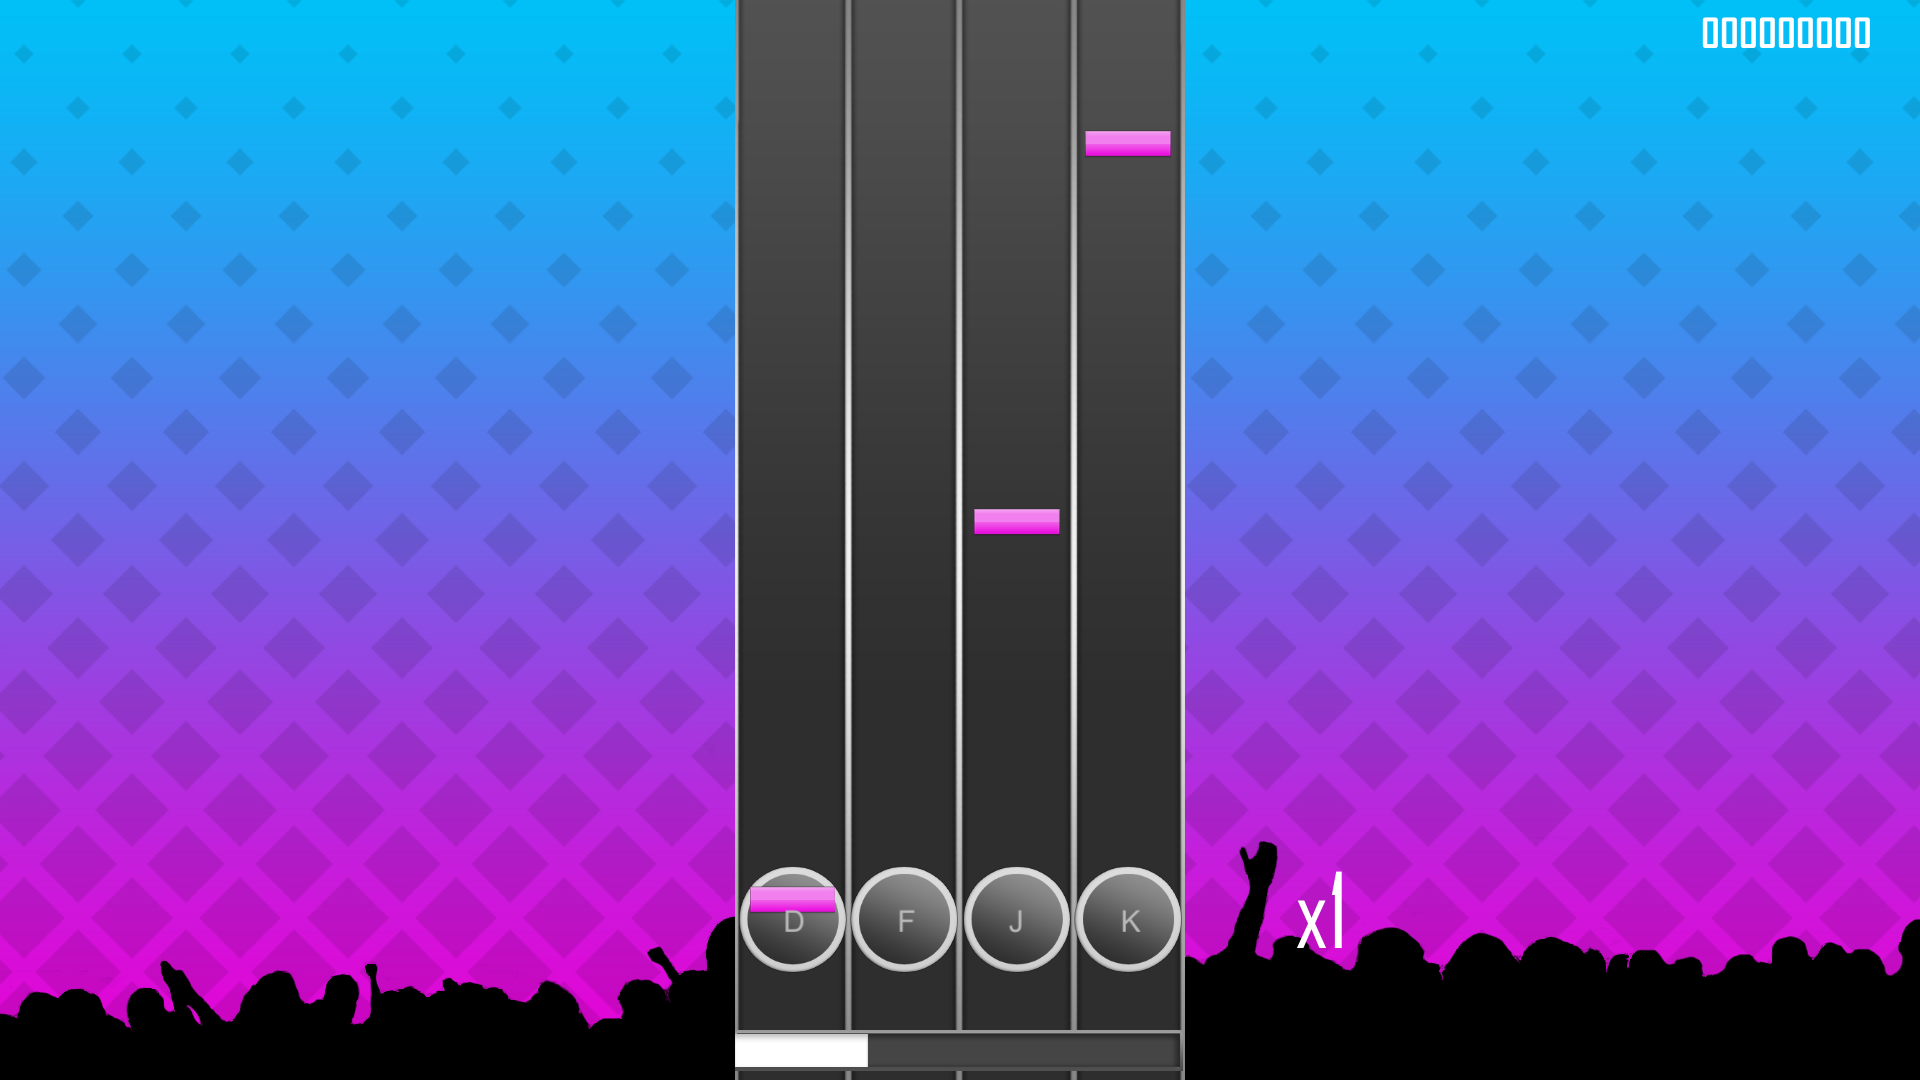
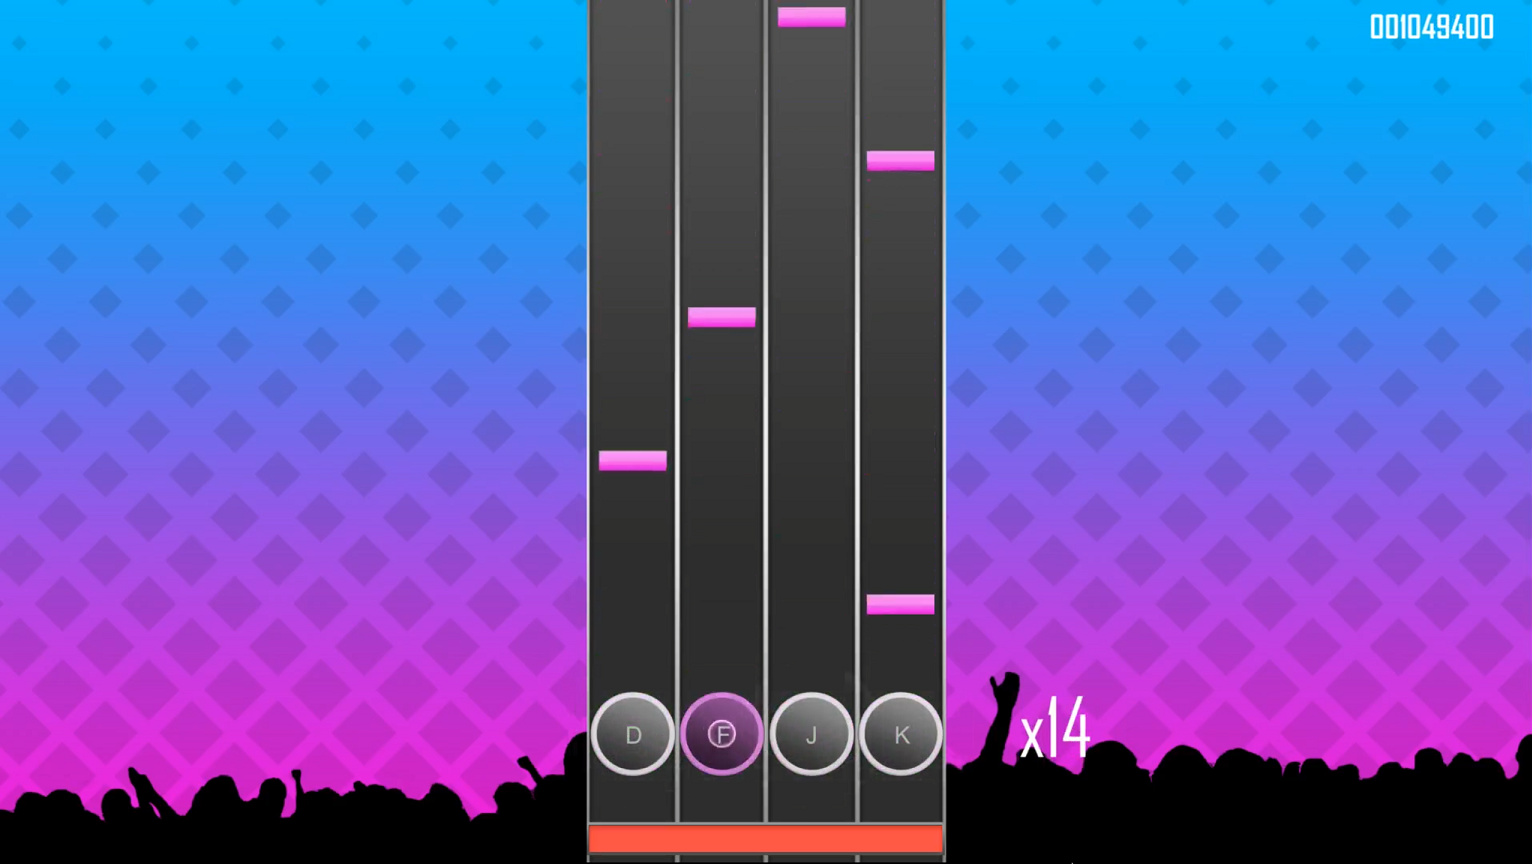
New Beat Master Page

diff --git a/BeatMaster.html b/BeatMaster.html
@@ -38,6 +38,7 @@
 			<p><b>I do not own the rights to either of the songs used and the timing of the notes is based off of other peoples work.</b></p>
 			<p>For this project we were required to make a arcade game. This was was to help us work on programming in C# and better understanding what Unity has to offer. For my idea I picked a rhythm game, which had some issues along the way. The main issue was timing, everything had to be near perfect. If the timing was off the player would easily tell. The second part was feedback, making the player feel like they had hit a note. I spent a lot of time working on these aspects to make sure the game felt responsive.</p>
 			<p><b>I am currently focusing on polishing this game more and so new screenshots will represent that soon.</b></p>
+			<p>I have added visuals to indicate when missing a note such as flashign red and a little shake to the multiplier. Next Update I will work on sound design.</p>
 		</div>
 		
 		<div id="fix"></div> <!-- This Div here adds a 45px gap at the very top -->
@@ -63,11 +64,11 @@
 			</div>
 			<div class="gallery2">
 				  <img src="images/beatMaster/gameplay4.png" alt="sculpt" width="100%" height="100%">
-				  <div class="desc">What the gameplay looks like.</div>
+				  <div class="desc">About to miss a note.</div>
 			</div>
 			<div class="gallery2">
 				  <img src="images/beatMaster/gameplay5.png" alt="sculpt" width="100%" height="100%">
-				  <div class="desc">What the gameplay looks like.</div>
+				  <div class="desc">Missing a note and taking damage.</div>
 			</div>
 			<div class="gallery2">
 				  <img src="images/beatMaster/gameplay6.png" alt="sculpt" width="100%" height="100%">
@@ -75,7 +76,7 @@
 			</div>
 		</div>
 
-		<iframe width="100%" height="800" src="https://www.youtube.com/embed/ohY0LTEwfio" frameborder="0" allow="accelerometer; autoplay; encrypted-media; gyroscope; picture-in-picture" allowfullscreen></iframe>
+		<iframe width="100%" height="800" src="https://www.youtube.com/embed/MQbzbhgZdNQ" frameborder="0" allow="accelerometer; autoplay; encrypted-media; gyroscope; picture-in-picture" allowfullscreen></iframe>
 
 	<div id="fix2"></div>
 	<div id = "project2">
